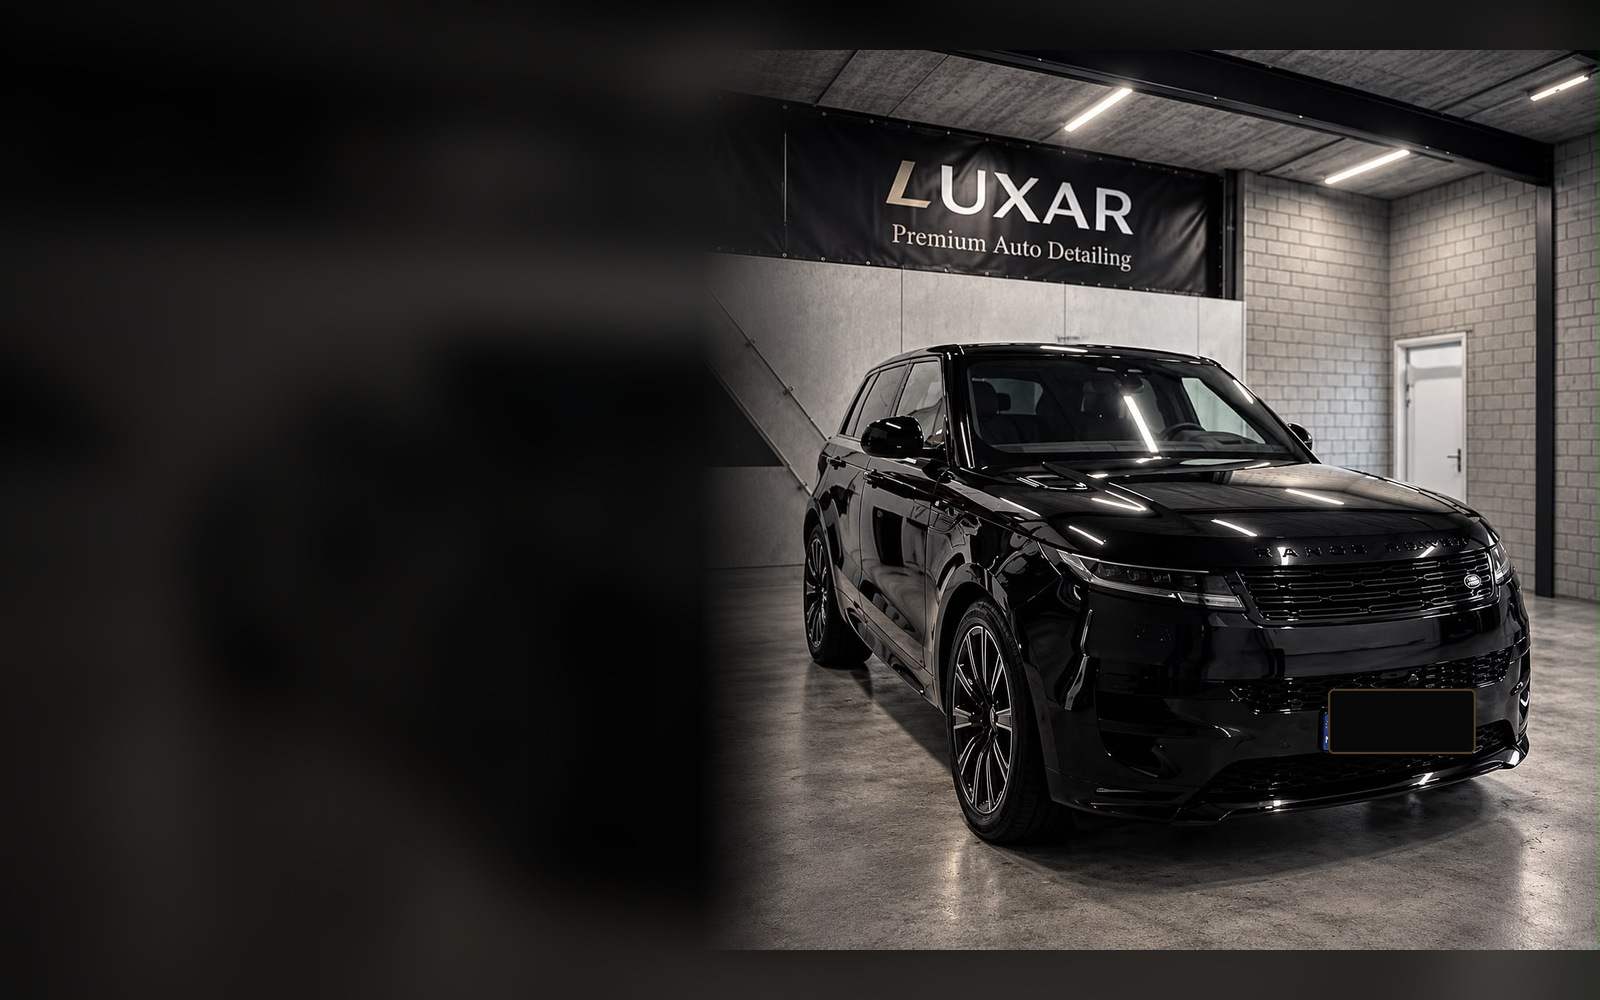
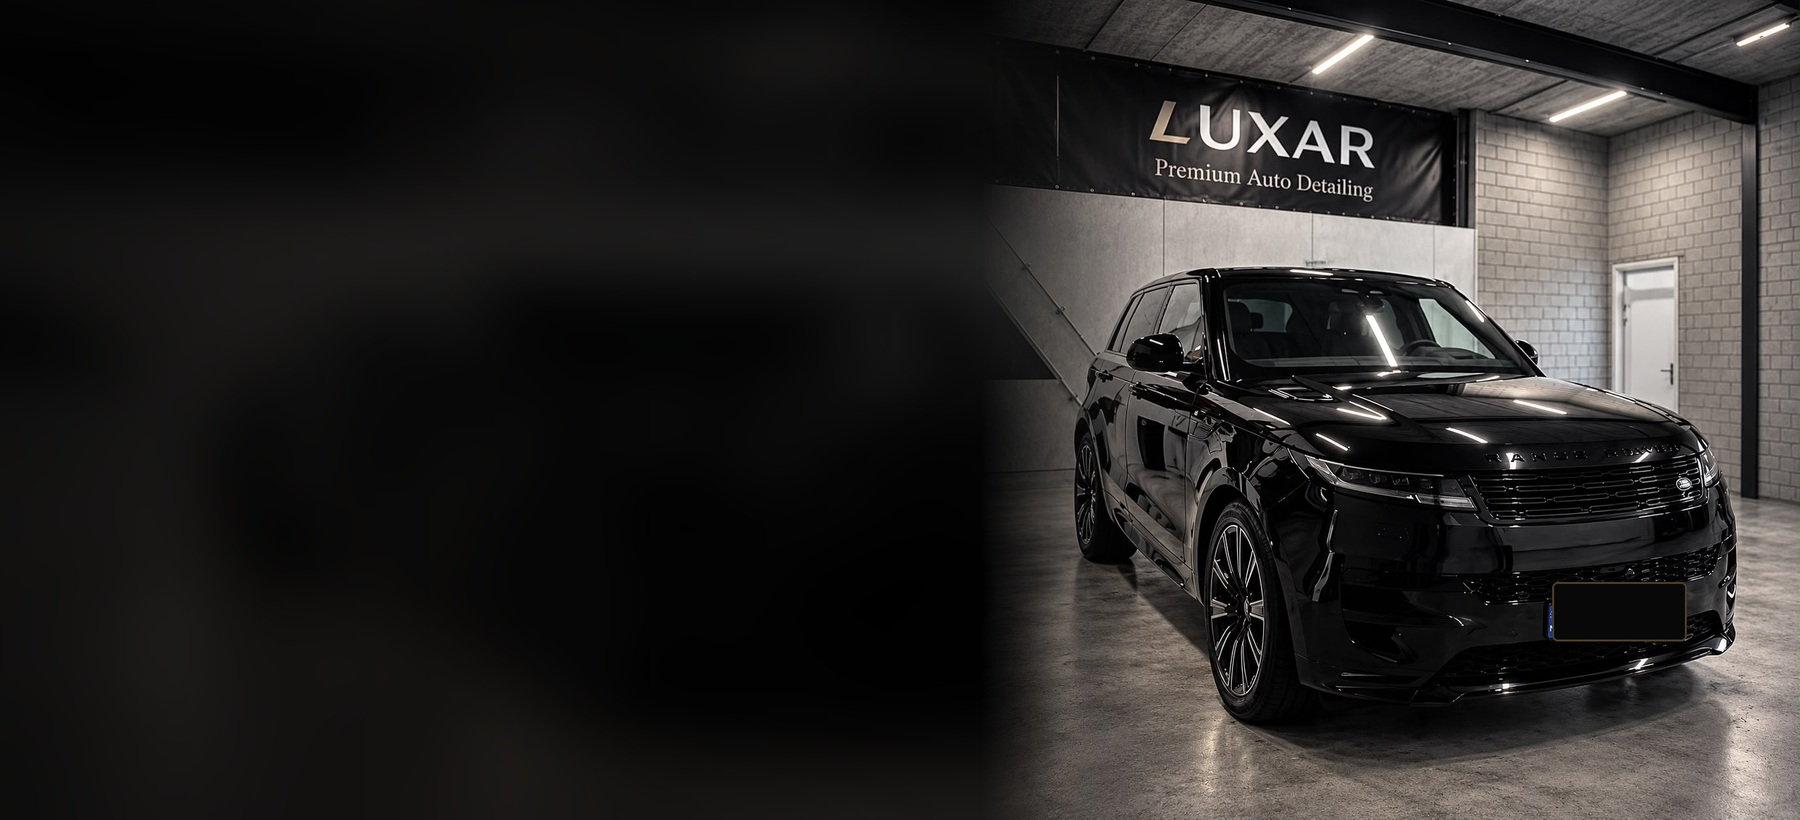
Add files via upload

diff --git a/styles.css b/styles.css
@@ -16,3 +16,77 @@ select.lang option{background:#111;color:#fff}
 
 /* Hero image: wide composition keeps the full car visible and the plate concealed. */
 .hero-visual img{width:100%;height:100%;max-height:none;object-fit:cover;object-position:center center;}
+
+/* LUXAR hero — full-bleed showroom composition, matching the approved premium reference */
+.hero{
+  position:relative;
+  display:flex;
+  align-items:center;
+  min-height:clamp(570px,48vw,760px);
+  padding:0 clamp(28px,5.4vw,100px);
+  gap:0;
+  overflow:hidden;
+  isolation:isolate;
+  background:#050505;
+}
+.hero-visual{
+  position:absolute;
+  inset:0;
+  z-index:-1;
+  width:100%;
+  height:100%;
+  min-height:0;
+  overflow:hidden;
+}
+.hero-visual img{
+  width:100%;
+  height:100%;
+  max-height:none;
+  object-fit:cover;
+  object-position:center center;
+  display:block;
+}
+.hero-visual:before{
+  content:"";
+  position:absolute;
+  inset:0;
+  z-index:1;
+  background:linear-gradient(90deg,rgba(3,3,3,.98) 0%,rgba(3,3,3,.9) 24%,rgba(3,3,3,.46) 43%,rgba(3,3,3,.02) 72%),
+             linear-gradient(0deg,rgba(3,3,3,.42),transparent 28%,transparent 78%,rgba(3,3,3,.2));
+}
+.hero-copy{
+  width:min(47%,640px);
+  max-width:640px;
+  padding:54px 0 42px;
+  position:relative;
+  z-index:2;
+}
+.hero h1{font-size:clamp(38px,4.05vw,66px);line-height:1.08;max-width:650px}
+.hero-lead{font-size:clamp(15px,1.2vw,19px);max-width:430px;line-height:1.55;margin:18px 0 24px}
+.hero-actions{gap:14px}
+.btn-large{min-height:58px;padding:0 25px;font-size:14px;border-radius:8px}
+.benefits{max-width:640px;margin-top:38px;gap:18px}
+.benefits>div{font-size:12px;gap:12px}
+.benefit-icon{font-size:32px;min-width:34px}
+.hero-video-link{display:none}
+.topbar{height:76px;padding-left:clamp(24px,5.5vw,100px);padding-right:clamp(24px,5.5vw,100px);gap:clamp(16px,2.4vw,38px)}
+.logo{width:210px;height:66px}
+.logo img{object-fit:contain}
+.head-actions .btn{min-height:48px;padding:0 18px;font-size:13px}
+.lang{min-height:44px}
+@media(max-width:900px){
+ .hero{min-height:650px;padding:0 28px;align-items:flex-end}
+ .hero-visual:before{background:linear-gradient(0deg,rgba(3,3,3,.98) 0%,rgba(3,3,3,.82) 37%,rgba(3,3,3,.18) 78%,rgba(3,3,3,.15) 100%)}
+ .hero-copy{width:100%;max-width:650px;padding:280px 0 38px}
+ .hero h1{font-size:clamp(36px,7vw,58px)}
+ .benefits{grid-template-columns:repeat(2,minmax(0,1fr));margin-top:26px}
+}
+@media(max-width:560px){
+ .hero{min-height:680px;padding:0 20px}
+ .hero-copy{padding-top:280px}
+ .hero-actions{display:grid;grid-template-columns:1fr}
+ .hero-actions .btn{width:100%}
+ .benefits{gap:15px}
+ .topbar{height:66px}
+ .logo{width:155px;height:54px}
+}

diff --git a/README.md b/README.md
@@ -21,3 +21,6 @@ Do not upload the ZIP file itself into the repository root as a substitute for i
 
 ## Hero photo
 The homepage uses `assets/luxar-hero-wide.jpg`: a wide composition made from the original workshop photo, keeping the full vehicle visible and covering the license plate. The original source photo is also retained in the assets folder.
+
+## Updated homepage hero
+The homepage now uses a full-width, full-bleed showroom hero composition. The original LUXAR Range Rover workshop photo is displayed large on the right with a dark fade behind the headline on the left. The license plate is covered. The image is not used as a flat screenshot; navigation, headings, buttons and sections remain real HTML elements.
